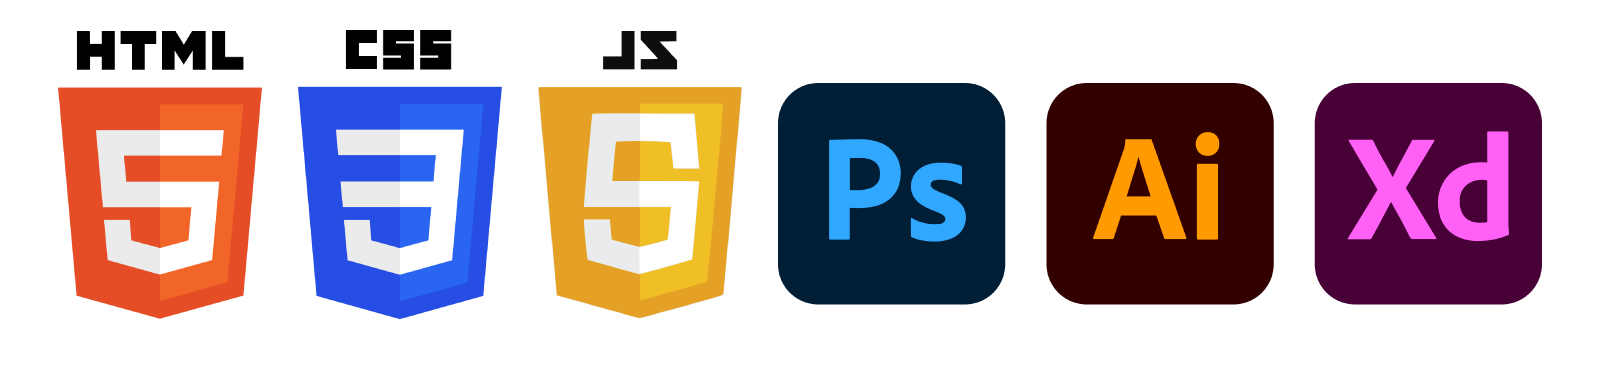
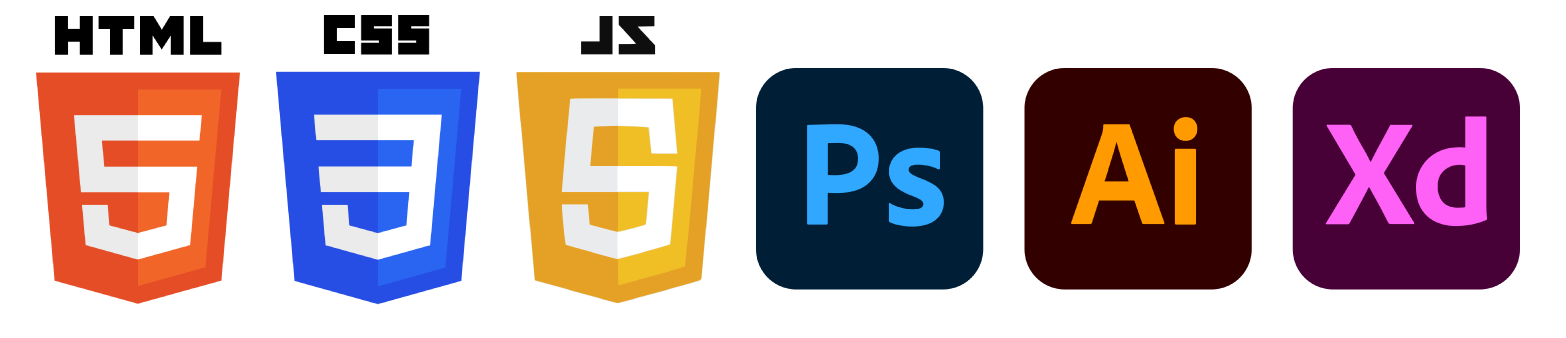
added responsive style

diff --git a/assets/style.css b/assets/style.css
@@ -47,11 +47,13 @@ p {
 /* BEGIN ELEMENT CLASSES */
 
 h1 {
+  text-align: center;
   font-size: 2rem;
   margin: 10px;
 }
 
 h2{
+  text-align: center;
   font-size: 1.6rem;
   margin: 10px;
 }
@@ -68,7 +70,8 @@ p {
 }
 
 nav {
-  margin: 30px;
+  margin: 60px;
+  
 }
 
 /* BEGIN HERO STYLES */
@@ -158,8 +161,10 @@ article img {
 }
 
 .software-img {
+  display: flex;
+  justify-content: center;
   background: var(--grad-bg); 
-  margin: 10px 80px;
+  margin: 20px 80px;
   border-radius: 40px;
 }
 
@@ -202,8 +207,8 @@ form {
 
 form input {
   margin: 5px;
-  padding: 10px;
-  width: 50%;
+  padding: 15px;
+  width: 65%;
   border-radius: 10px;
   border: none;
   background-color: rgb(190, 212, 255);
@@ -234,4 +239,216 @@ footer {
   color: white;
 }
 
+/* BEGIN RESPONSIVE STYLES */
 
+
+/* On screens that are 830px or less, set the background color to blue */
+@media screen and (max-width: 830px) {
+
+  .about {
+    flex-direction: column;
+    justify-content: center;
+    align-items: center;
+    margin-bottom: 60px;
+  }
+
+  .projects {
+    padding: 20px;
+    margin-bottom: 30px;
+  }
+
+  .projects-title {
+    text-align: center;
+   
+  }
+  
+  .article-cont {
+    display: flex;
+    flex-direction: column;
+    gap: 1rem;
+    padding: 10px 30px;
+    margin-top: 10px;
+  }
+
+  article{
+    padding: 30px;
+    margin: 30px;
+  } 
+
+  article h2 {
+    margin-top: 2px;
+  }
+
+  .contact {
+    width: 90%;
+    margin: 0 auto 20px auto;
+  }
+  
+  
+  .contact-title {
+    text-align: center;
+    padding: 20px;
+  }
+  
+  .form-container {
+    padding: 40px 60px;
+    background: var(--grad-bg);
+    border-radius: 30px;
+  }
+  
+  form {
+    display: flex;
+    flex-direction: column;
+    justify-content: center;
+    align-items: center;
+  }
+  
+  form input {
+    margin: 5px;
+    padding: 10px;
+    width: 80%;
+    border-radius: 10px;
+    border: none;
+    background-color: rgb(190, 212, 255);
+  }
+  
+  form button {
+    margin: 10px;
+    padding: 20px;
+    width: 40%;
+    background-color: rgb(62, 136, 254);
+    border-radius: 20px;
+    border: none;
+    color: white;
+  }
+  
+  .textarea {
+    height: 40px;
+    border-radius: 10px;
+    margin-bottom: 25px;
+  }
+  
+  footer {
+    margin-top: 50px;
+  }
+  
+}
+
+/* On screens that are 500px or less, set the background color to olive */
+@media screen and (max-width: 500px) {
+  
+  h1 {
+    text-align: center;
+    font-size: 3.0rem;
+  }
+
+  h2 {
+    text-align: center;
+  }
+
+  .nav-links {
+    display: flex;
+    flex-direction: column;
+    text-align: center;
+  }
+
+  .nav-links li {
+    font-size: 0.5rem;
+    margin: 5px;
+  }
+
+  nav {
+    margin: 10px;
+    margin-bottom: 20px;
+  }
+
+  .about-text-cont {
+   
+      padding: 20px;
+      margin: 20px;
+      
+  }
+
+  .projects {
+    padding: 10px;
+    margin-bottom: 20px;
+  }
+  
+  .article-cont {
+    display: flex;
+    flex-direction: column;
+    gap: 1rem;
+    padding: 10px 20px;
+    margin-top: 10px;
+  }
+
+  article{
+    padding: 15px;
+    margin: 15px;
+  } 
+
+  .projects h2 {
+    margin-top: 15px;
+  }
+
+  .expertise {
+    margin-bottom: 85px;
+  }
+  
+  .software-img {
+    display: flex;
+    justify-content: center;
+    background: var(--grad-bg); 
+    margin: 20px 10px;
+    border-radius: 40px;
+  }
+  
+  .software-img img {
+    padding: 10px 10px;
+    width: 100%;
+  }
+  
+  .expertise-title {
+    text-align: center;
+    padding: 20px;
+  }
+
+  .contact {
+    width: 90%;
+    margin: 0 auto 20px auto;
+  }
+  
+  
+  .contact-title {
+    text-align: center;
+    padding: 20px;
+  }
+  
+  .form-container {
+    padding: 20px 30px;
+    background: var(--grad-bg);
+    border-radius: 30px;
+  }
+  
+ 
+  form input {
+    margin: 10px;
+    padding: 20px;
+    width: 90%;
+    border-radius: 10px;
+  }
+  
+  form button {
+    margin: 10px;
+    padding: 20px;
+    width: 60%;
+  }
+  
+  .textarea {
+    height: 40px;
+    border-radius: 10px;
+    margin-bottom: 25px;
+  }
+  
+  
+}

diff --git a/index.html b/index.html
@@ -17,10 +17,11 @@
       <ul class='flex-col'>
         <a href="./index.html">
         <li>
-          <h1>Jacob Lauterstein – Web Developer</h1>
+          <h1>Jacob Lauterstein</h1>
+          <h2>Web Developer</h2>
         </li>
       </a>
-        <div class='flex'>
+        <div class='flex nav-links'>
         <li>
           <a href="#about">About Me</a>
         </li>
